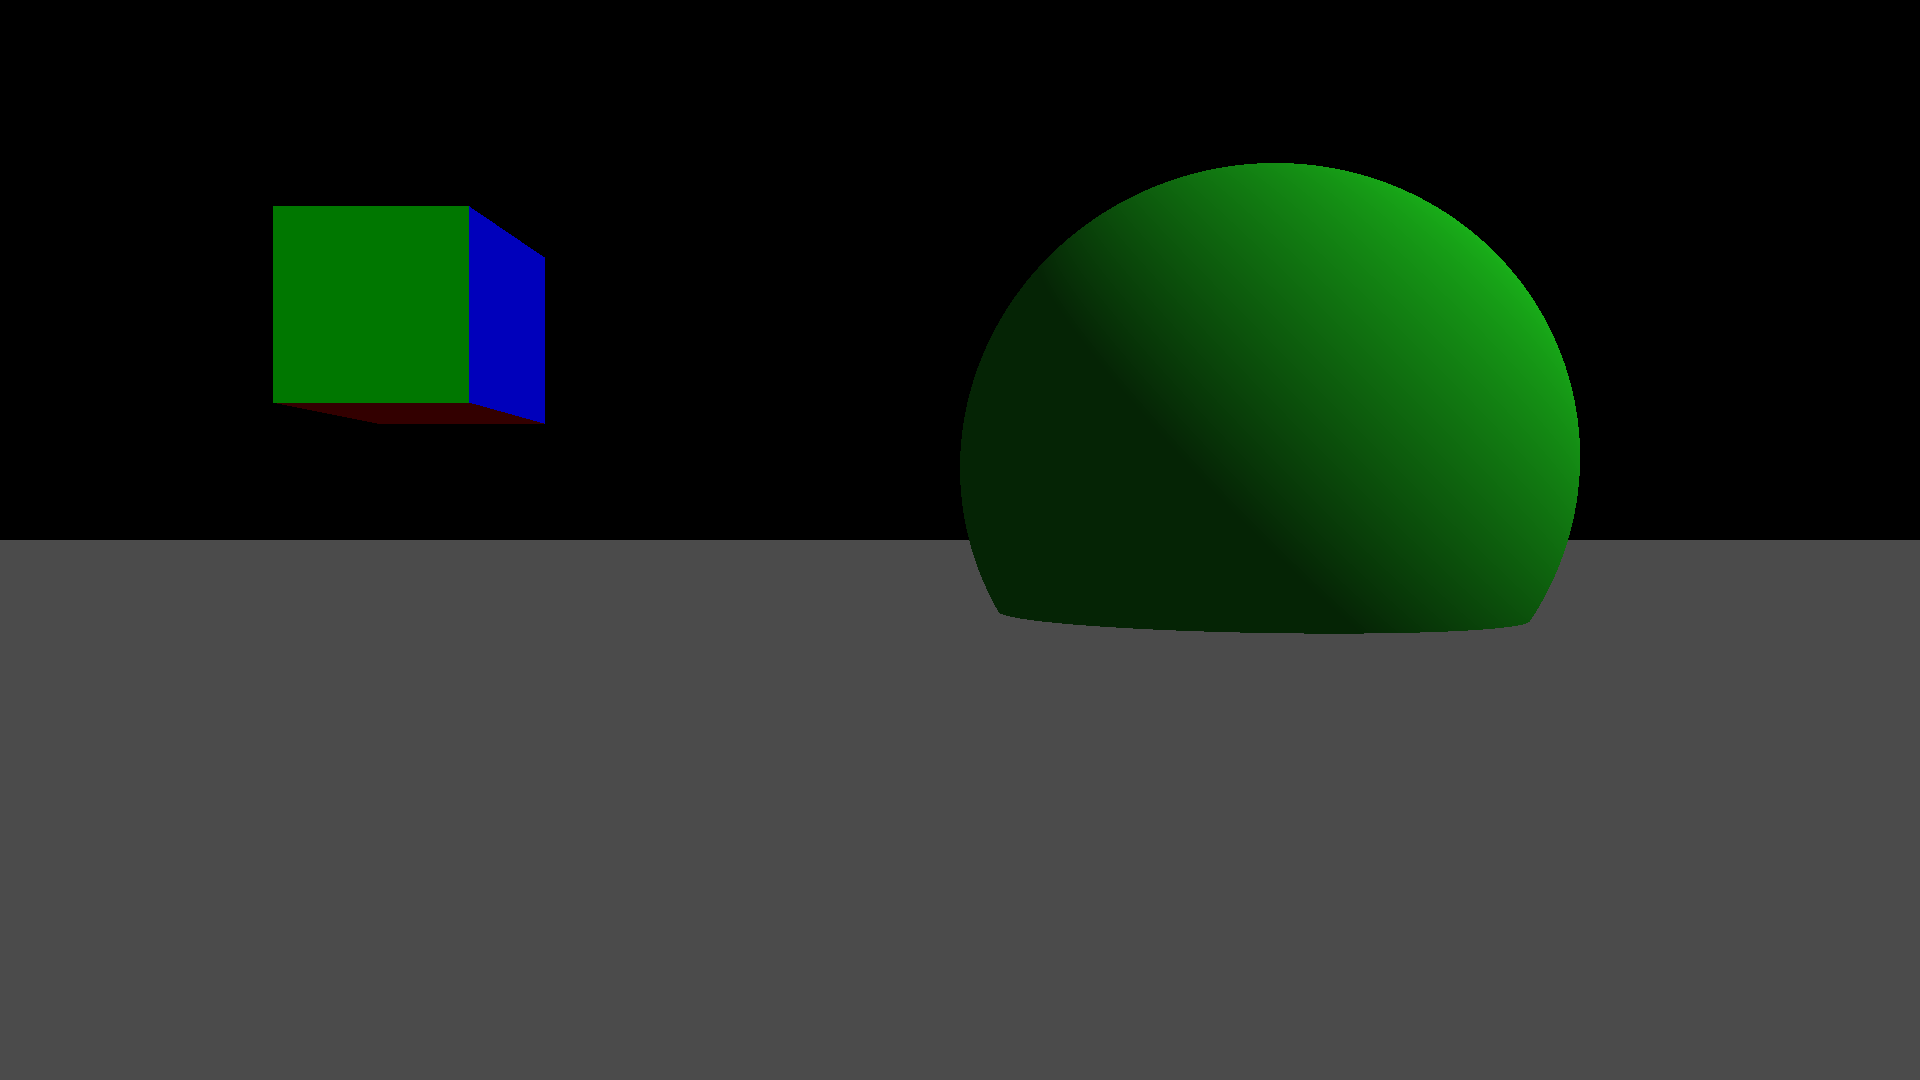
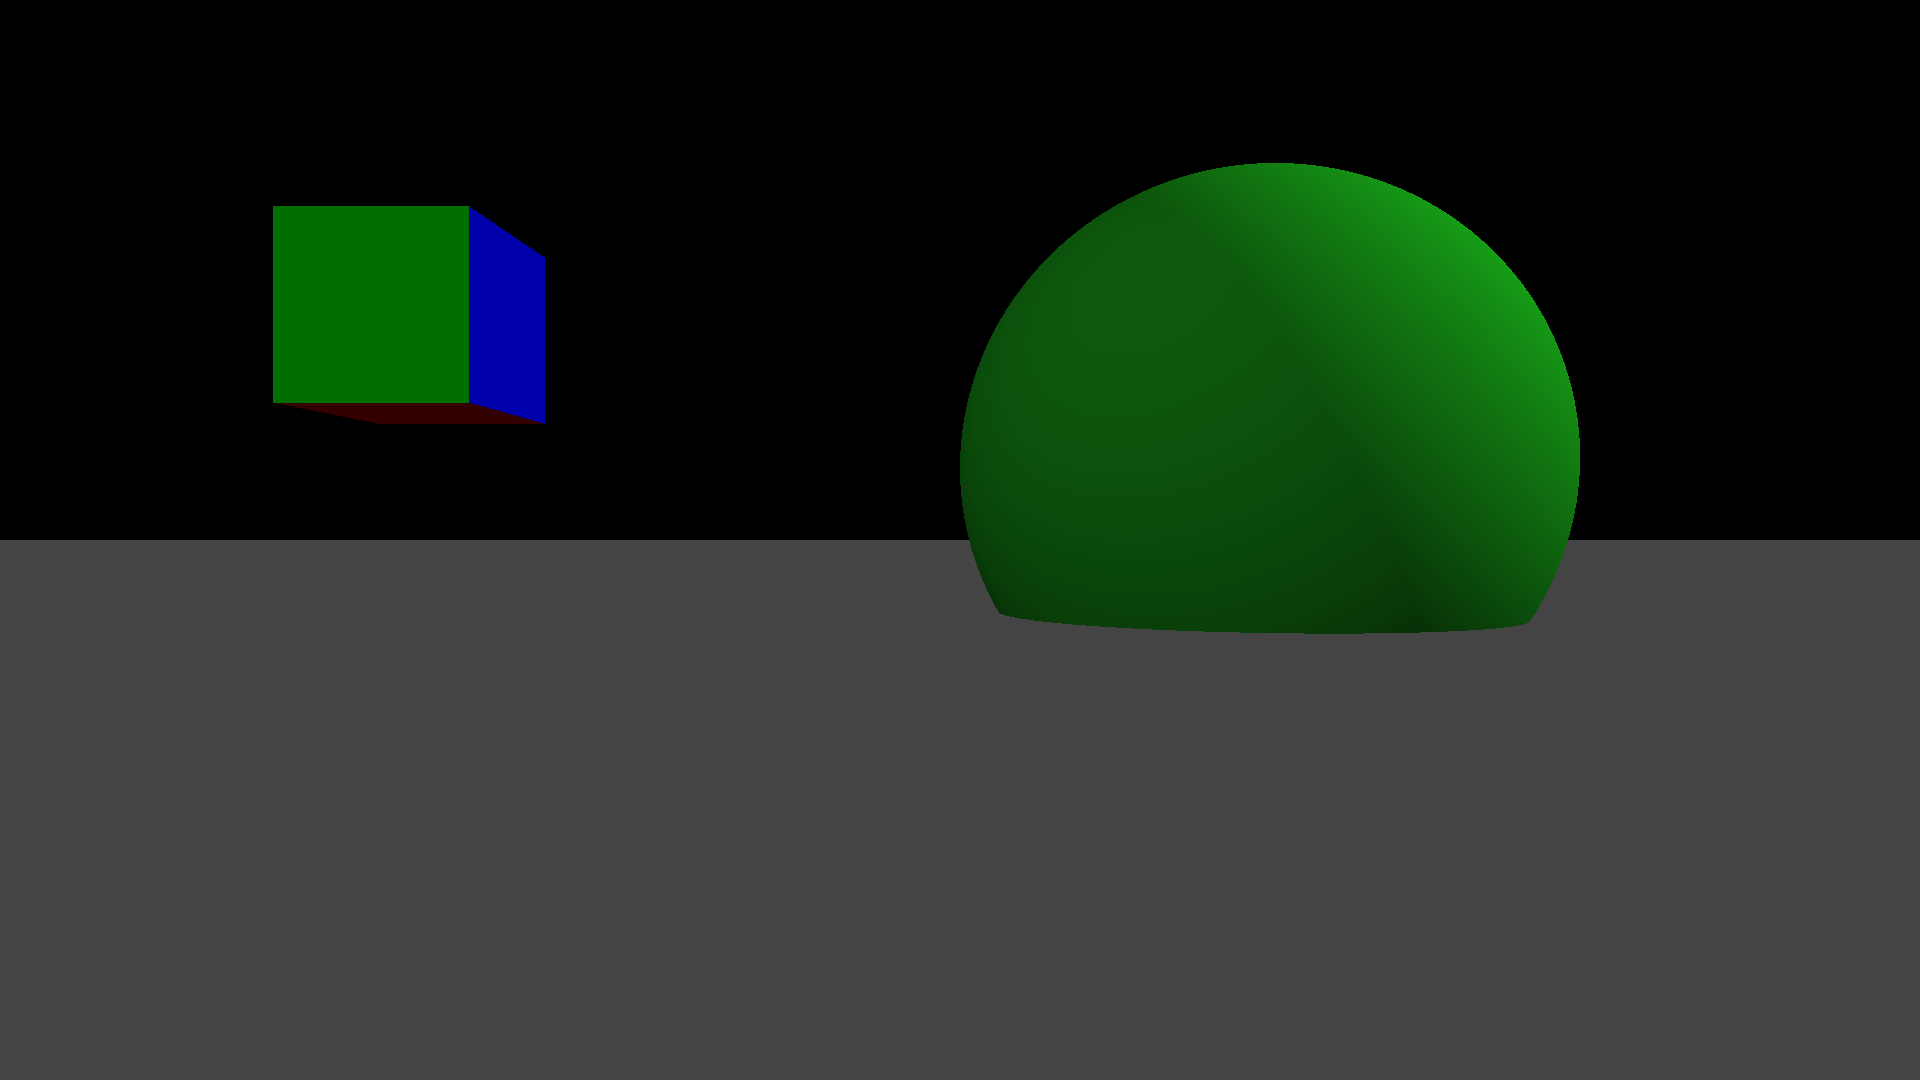
Allow more than one light

Changed region(s): [[0.5, 0.2139, 0.6875, 0.6111]]

diff --git a/src/scene.cpp b/src/scene.cpp
@@ -39,12 +39,18 @@ void Scene::Render(const char *filename, unsigned resolution_width, unsigned res
 
             if (closest)
             {
-                double diffuse_intensity = light_sources[0]->direction.DotProduct(closest->normal);
-                if (diffuse_intensity < 0)
+                double total_diffuse_component = 0;
+
+                for (std::vector<DirectionalLight *>::iterator light_iterator = light_sources.begin(); light_iterator < light_sources.end(); light_iterator++)
                 {
-                    diffuse_intensity = 0;
+                    double diffuse_component = (*light_iterator)->direction.DotProduct(closest->normal)*(*light_iterator)->intensity;
+
+                    total_diffuse_component = std::max(total_diffuse_component,std::max(diffuse_component, 0.0));
                 }
-                colour = closest->colour.Scale(ambient_intensity + diffuse_intensity * light_sources[0]->intensity);
+
+                double colour_scale = std::min(ambient_intensity + total_diffuse_component, 1.0);
+
+                colour = closest->colour.Scale(colour_scale);
             }
 
             image.SetPixel(i, j, colour);

diff --git a/src/main.cpp b/src/main.cpp
@@ -41,7 +41,8 @@ int main()
 
     Plane *plane = new Plane({0, 1, 0}, {0, -0.5, 0}, {0.4, 0.4, 0.4});
 
-    DirectionalLight *light = new DirectionalLight({1,1,0.5}, 0.8);
+    DirectionalLight *light1 = new DirectionalLight({1,1,0.5}, 0.7);
+    DirectionalLight *light2 = new DirectionalLight({-1,1,1.5}, 0.3);
 
     BoundingSphere *bound = new BoundingSphere(mesh);
 
@@ -49,7 +50,8 @@ int main()
     scene.AddObject(sphere);
     scene.AddObject(bound);
     scene.AddObject(plane);
-    //scene.AddLightSource(light);
+    scene.AddLightSource(light1);
+    scene.AddLightSource(light2);
     const char *filename = (".\\out\\render.png");
     scene.Render(filename, 1920, 1080);
 };
